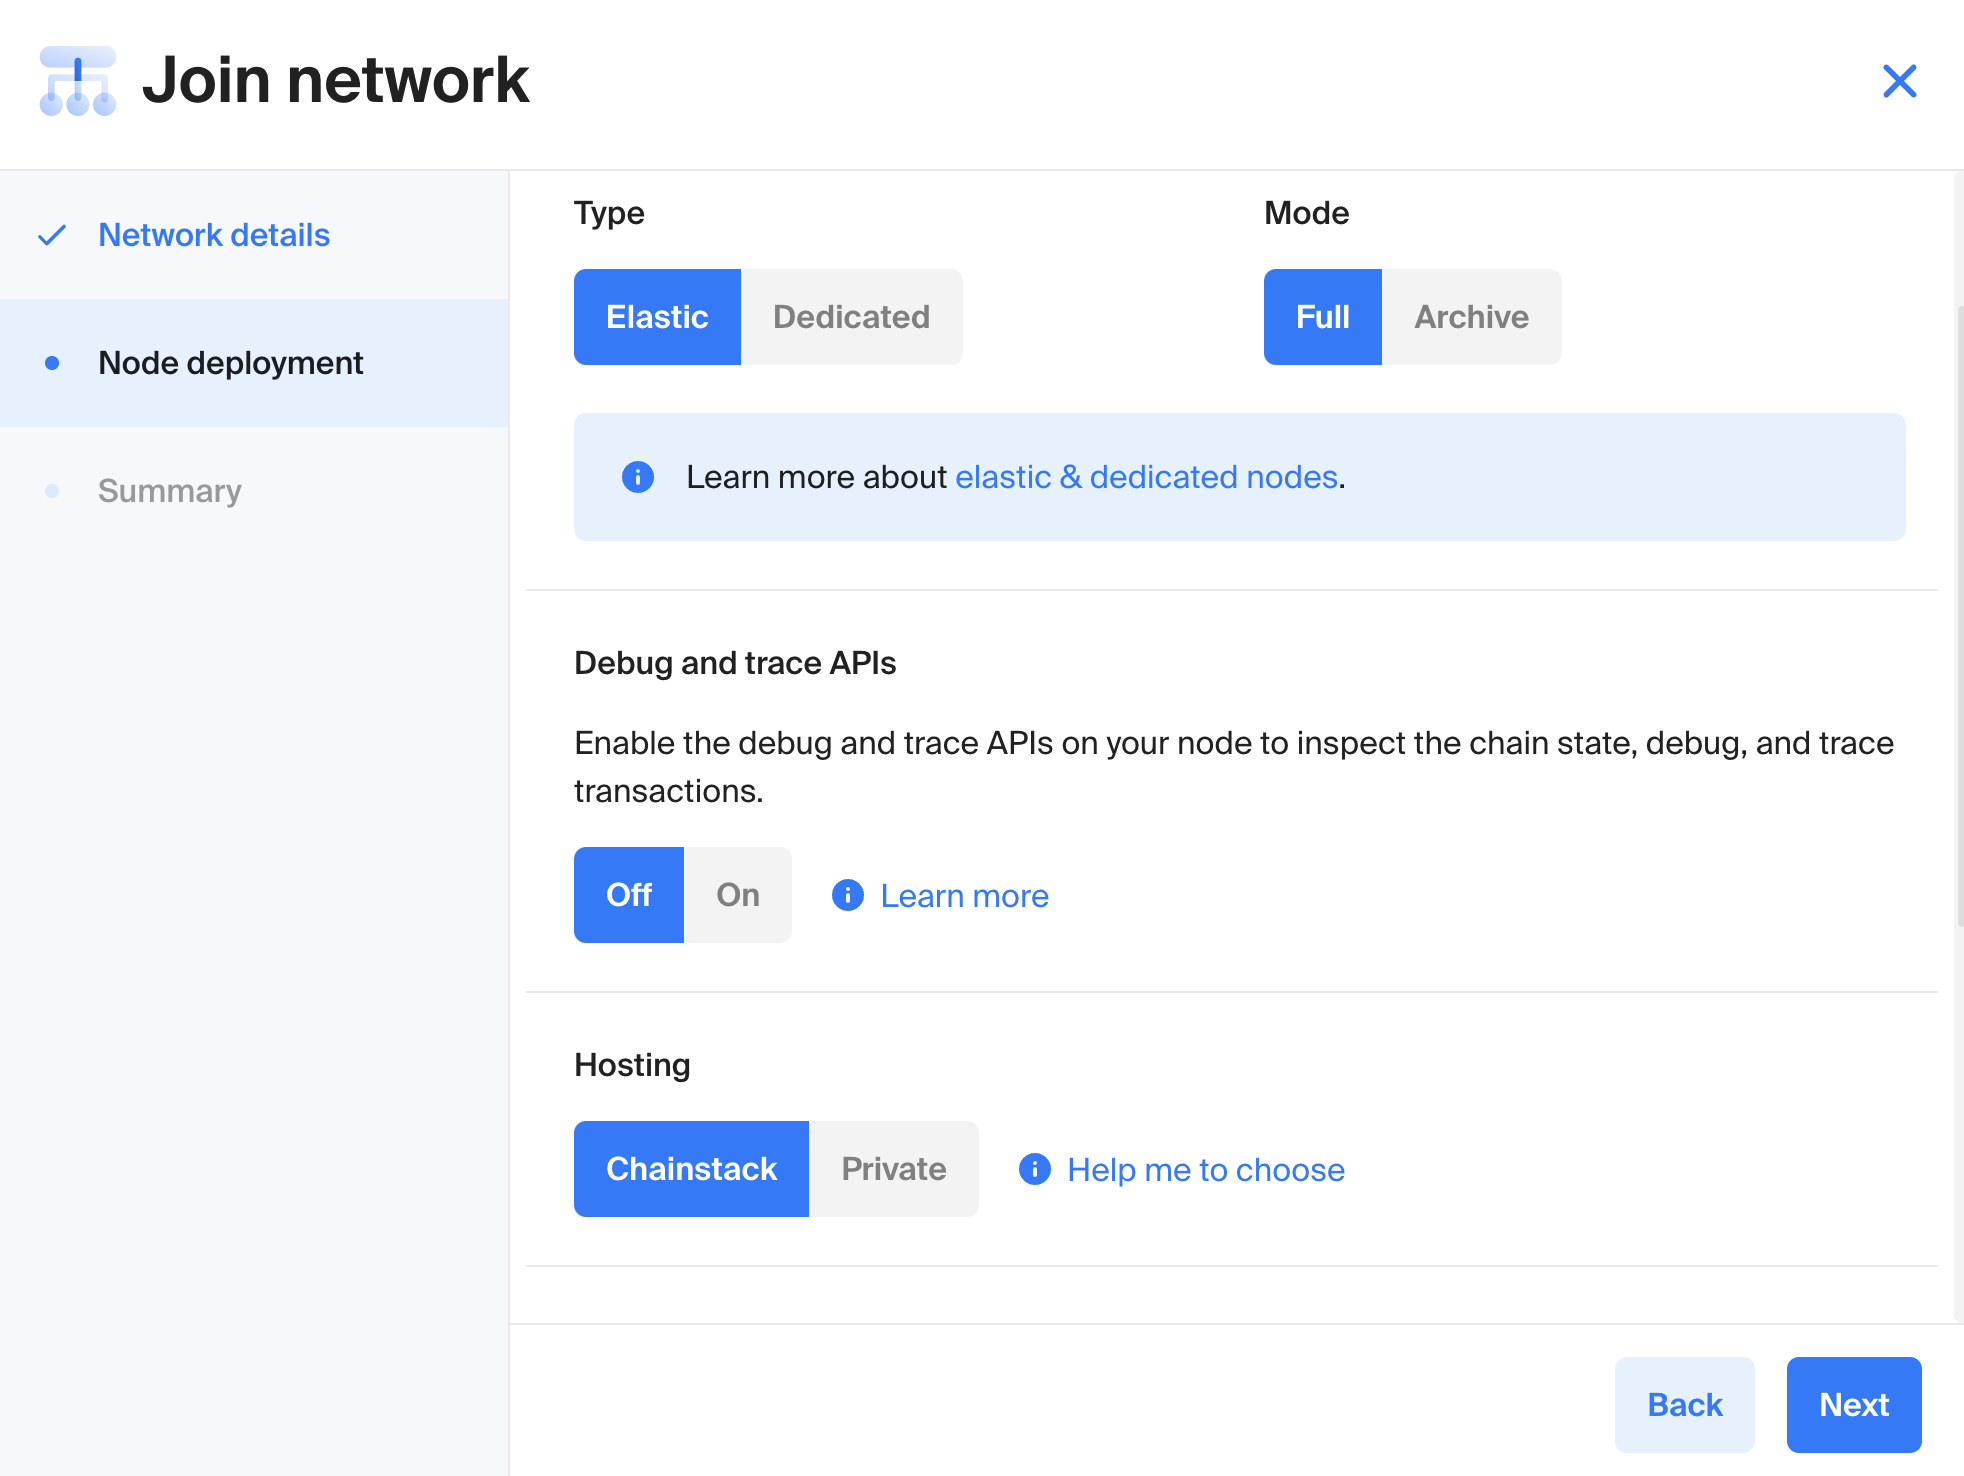
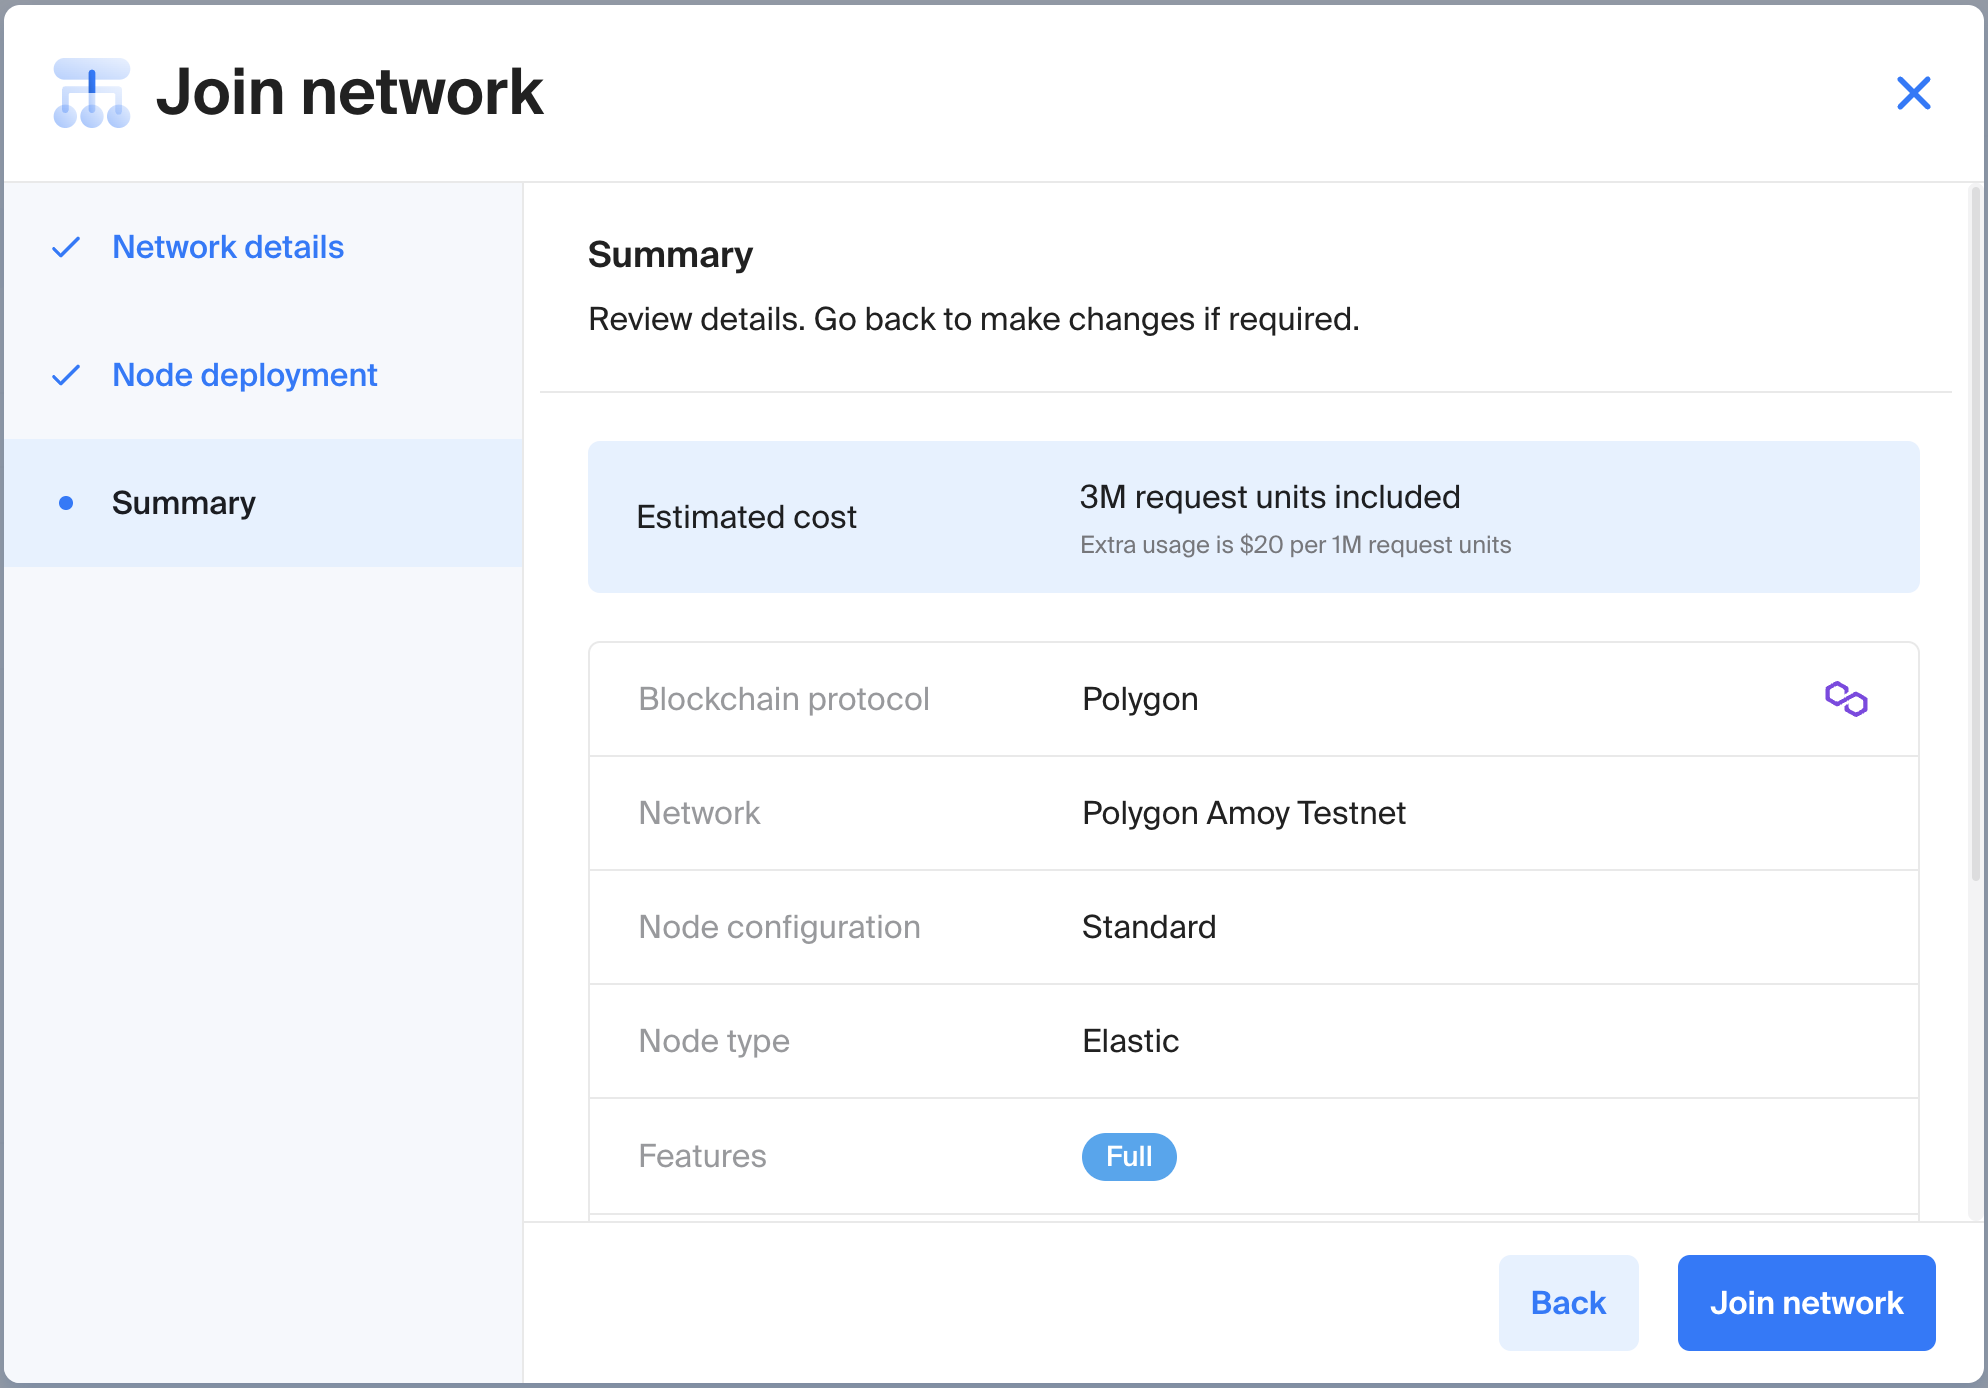
Updated images and content for Chainstack
Updated images and content for Chainstack

diff --git a/docs/v2.6/7_setting-up-an-rpc-node.md b/docs/v2.6/7_setting-up-an-rpc-node.md
@@ -4,8 +4,7 @@ sidebar_position: 7
 sidebar_label: Setting Up An RPC Node
 ---
 
-
-# Setting Up An RPC Node For web3.unity 
+# Setting Up An RPC Node For web3.unity
 
 :::info
 
@@ -13,7 +12,7 @@ This section walks through the process of setting up an RPC node to be used with
 
 :::
 
-# Prerequisites 
+# Prerequisites
 
 - A Chainstack account (sign up at [Chainstack](https://console.chainstack.com/user/account/create?utm_campaign=Referrals&utm_source=chainsafe&utm_medium=referrals) if you don't have one)
 - Familiarity with the web3.unity SDK
@@ -26,7 +25,7 @@ This section walks through the process of setting up an RPC node to be used with
 
 ![](assets/setting-up-an-rpc-node/chainstack-dashboard.png)
 
-3. Give your project a name and select “Public chain” for the Type.
+3. Give your project a name and click create.
 
 ![](assets/setting-up-an-rpc-node/chainstack-create-project-name.png)
 
@@ -34,41 +33,41 @@ This section walks through the process of setting up an RPC node to be used with
 
 ![](assets/setting-up-an-rpc-node/chainstack-newly-created-project.png)
 
-5. Inside the project, choose "Networks" from the ribbon menu, and then click on “Get Started” to begin deploying an RPC node.
+5. Inside the project, click on your network of choice, or the "Explore all Node Options" button to begin deploying an RPC node.
 
 ![](assets/setting-up-an-rpc-node/chainstack-get-started-button.png)
 
 # Deploying an RPC node
 
-1. After clicking on the “Get started” button, you will be presented with 3 required steps. In the first step “Network details”, you will select the EVM chain that your blockchain game will be making interactions with.
+1. After clicking on the "Explore all Node Options" button, you will be presented with 3 required steps. In the first step “Network details”, you will select the EVM chain that your blockchain game will be making interactions with.
 
 2. Depending on which EVM chain you select, you will be prompted to select a network under a given chain. In our example, we have selected Polygon and its Mumbai testnet. Click “Next”.
 
 ![](assets/setting-up-an-rpc-node/chainstack-selecting-chain-and-network.png)
 
-3. If you are under Chainstack’s Developer plan, you will only be able to select the default options presented in the “Node deployment” step. This means you will choose “Elastic” for node type, “Full” for full node, “Off” for Debug and trace APIs, “Chainstack” for Hosting, and any available provider under the Cloud provider drop-down menu. Finally, name your node and click “Next”.
+3. If you are under Chainstack’s Developer plan, you will only be able to select the default options presented in the “Node deployment” step. This means you will choose “Elastic” for node type, “Full” for full node. Finally, name your node and click “Next”.
 
-![](assets/setting-up-an-rpc-node/chainstack-join-network.png)
-
-![](assets/setting-up-an-rpc-node/chainstack-naming-node.png)
+![](assets/setting-up-an-rpc-node/chainstack-node-deployment.png)
 
 :::info
 
-Note that Chainstack’s Developer plan provides 3 million free API requests per month. This should be enough for most testing and app development purposes. If your game requires more calls per month, we would suggest [upgrading your plan](https://console.chainstack.com/user/account/create?utm_campaign=Referrals&utm_source=chainsafe&utm_medium=referrals). 
+Note that Chainstack’s Developer plan provides 3 million free API requests per month. This should be enough for most testing and app development purposes. If your game requires more calls per month, we would suggest [upgrading your plan](https://console.chainstack.com/user/account/create?utm_campaign=Referrals&utm_source=chainsafe&utm_medium=referrals).
 
 :::
 
 4. Review the details under the “Summary” step and then click “Join network”.
-You will appear back in your project dashboard. Your newly created node will take a moment to deploy while under a “Pending” status. 
+   You will appear back in your project dashboard.
 
-5. Once deployed, the node’s status will turn green under a “Running” status. You can now expand the details of your node by clicking on its name. 
+![](assets/setting-up-an-rpc-node/chainstack-join-network.png)
+
+5. Once deployed, the node’s status will turn green under a “Running” status. You can now expand the details of your node by clicking on its name.
 
 ![](assets/setting-up-an-rpc-node/chainstack-node-status.png)
 
 # Retrieving your HTTPS endpoint
 
-1. Within the node dashboard, you will be presented with a number of KPIs and metrics. Please scroll down to the “Access and credentials” section. 
+1. Within the node dashboard, you will be presented with a number of KPIs and metrics. Please scroll down to the “Access and credentials” section.
 
-2. From here, take note of the HTTPS endpoint, which will be the RPC URL you will use to configure web3.unity and allow your Unity game to interact with the blockchain. 
+2. From here, take note of the HTTPS endpoint, which will be the RPC URL you will use to configure web3.unity and allow your Unity game to interact with the blockchain.
 
 ![](assets/setting-up-an-rpc-node/chainstack-https-endpoints.png)
